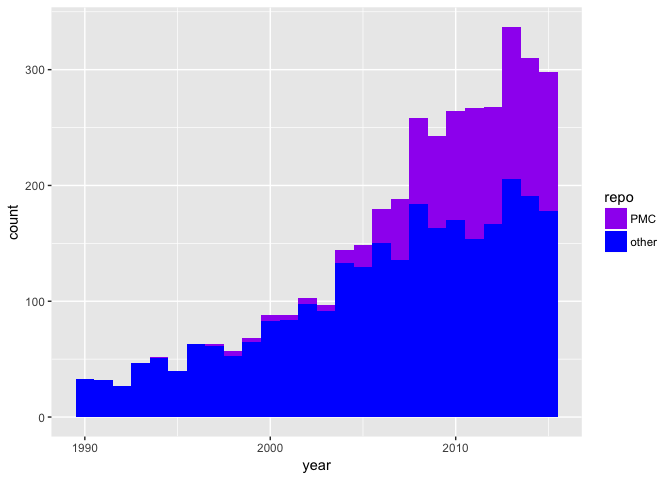
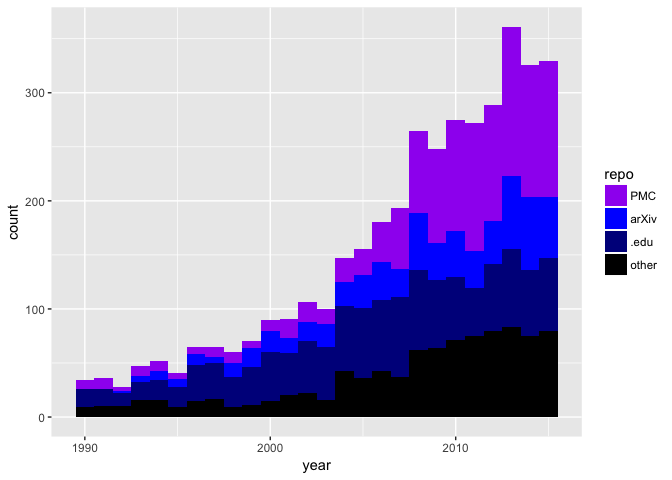
access data

diff --git a/oa_analysis.md b/oa_analysis.md
@@ -37,7 +37,7 @@ Category definitions:
 -   *green\_only*: The article is Green OA. We couldn't find any free copy on the publisher page, but we did find one in a repository. Note: this category is for copies that are *only* available in the repository, nowhere else.
 -   *NA*: Processing error of som kind...we'll fix these before publication
 
-So, about 23% of the DOI-assigned literature is available to read. Given that we’re sampling from 65,838,767 total journal articles with a Crossref DOI, that means we can estimate there are *at least* 65838767 \* 0.232 = 15274594 free-to-read articles (15.2 million) with Crossref DOIs.
+So, about 28% of the DOI-assigned literature is available to read. Given that we’re sampling from 66,560,153 total journal articles with a Crossref DOI, that means we can estimate there are *at least* 66560153 \* 0.279 = 18570283 free-to-read articles (18.6 million) with Crossref DOIs.
 
 But we know that in recent years OA has been gaining steam, so let's let's look more closely at OA over time.
 
@@ -168,14 +168,14 @@ articles_all = articles_all %>% mutate(base_collection_string=as.character(green
 
 articles_all$repo = NULL
 articles_all$repo[articles_all$oa=="green_only"] = "other"
-articles_all$repo[grepl('pmcid', articles_all$evidence)] = "PMC"
-articles_all$repo[grepl('pubmed', articles_all$base_collection_string)] = "PMC"
-articles_all$repo[grepl('arxiv', articles_all$base_collection_string)] = "arXiv"
+articles_all$repo[grepl('/pmc/', articles_all$best_open_url)] = "PMC"
+articles_all$repo[grepl('arxiv.org', articles_all$best_open_url)] = "arXiv"
+articles_all$repo[grepl('.edu', articles_all$best_open_url)] = ".edu"
 
-repo_ordered_levels = c("PMC", "arXiv", "other")
+repo_ordered_levels = c("PMC", "arXiv", ".edu", "other")
 articles_all = mutate(articles_all, repo=factor(repo, levels=repo_ordered_levels))
 
-repo_color_map = scale_fill_manual(values=c("purple", "blue", "dark blue"))
+repo_color_map = scale_fill_manual(values=c("purple", "blue", "dark blue", "black"))
 
 articles_all %>% filter(is_modern) %>% filter(!is.na(repo)) %>% ggplot(aes(x=year, fill=repo)) + geom_bar(width=1) + repo_color_map
 ```
@@ -188,11 +188,13 @@ It apprears that multi-year embargoes maybe affecting PMC, since the number of a
 articles_all %>% filter(year > 2009, oa=="green_only") %>% count(repo) %>% mutate(proportion=n/sum(n))
 ```
 
-    ## # A tibble: 2 × 3
+    ## # A tibble: 4 × 3
     ##     repo     n proportion
     ##   <fctr> <int>      <dbl>
-    ## 1    PMC   723  0.3763665
-    ## 2  other  1198  0.6236335
+    ## 1    PMC   757  0.3940656
+    ## 2  arXiv   373  0.1941697
+    ## 3   .edu   268  0.1395107
+    ## 4  other   523  0.2722540
 
 That said, smaller repositories are still making a significant contribution to Green OA, particularly in recent years. for articles published since 2009, the contribute about as much as PMC (42%).
 
@@ -249,27 +251,61 @@ DOIs accessed through Unpaywall on April 20, 2017. 50k accesses, 30k unique DOIs
 
 To write: - describe unpaywall - describe userbase of unpaywall - the number of calls to the api - percent of dois with more than one accesses - number of unique IP addresses - DOI based analysis - we'll include one or two of these graphs, not sure which yet - for the most viewed articles, the OA story is better, and getting even better
 
+NOTE THIS GOES UP TO 2017, SEEMS RELEVANT
+
 ``` r
-# articles_accessed_raw <- read.csv("export_study_dois_unpaywall_accesses_20170511.csv")
-# articles_accessed = articles_accessed_raw
-# articles_accessed = mutate(articles_accessed, oa=factor(oa_color_long, levels=oa_ordered_levels))
-# 
-# # how much oa
-# articles_accessed %>% count(oa) %>% mutate(proportion=n/sum(n))
-# articles_accessed %>% ggplot(aes(x="", fill=oa)) + geom_bar() + oa_color_map
-# 
-# articles_accessed = articles_accessed %>% mutate(is_modern = year >= 1990 & year <= 2015)
-# articles_accessed %>% count(is_modern) %>% mutate(proportion = n / sum(n))
-# 
-# articles_accessed %>% filter(is_modern) %>%
-#     ggplot(aes(x=year, fill=oa)) + geom_bar(width=1) + oa_color_map
-# 
-# oa_freq_by_year = articles_accessed %>% filter(is_modern) %>% count(year, oa) %>%
-#   mutate(perc = n / sum(n)) %>%
-#   ungroup()
-# 
-# oa_freq_by_year %>% ggplot(aes(x=year, y=perc, fill=oa)) + geom_area() + oa_color_map
+articles_accessed_raw <- read.csv("export_study_dois_unpaywall_accesses.csv")
+articles_accessed = articles_accessed_raw
+articles_accessed = mutate(articles_accessed, oa=factor(oa_color_long, levels=oa_ordered_levels))
+
+# how much oa
+articles_accessed %>% count(oa) %>% mutate(proportion=n/sum(n))
 ```
+
+    ## # A tibble: 6 × 3
+    ##            oa     n   proportion
+    ##        <fctr> <int>        <dbl>
+    ## 1      closed 55944 0.5295370432
+    ## 2   gold_free 16136 0.1527350516
+    ## 3 gold_hybrid  8789 0.0831921399
+    ## 4   gold_doaj 15085 0.1427868278
+    ## 5  green_only  9661 0.0914460420
+    ## 6          NA    32 0.0003028955
+
+``` r
+articles_accessed %>% ggplot(aes(x="", fill=oa)) + geom_bar() + oa_color_map
+```
+
+![](oa_analysis_files/figure-markdown_github/unnamed-chunk-14-1.png)
+
+``` r
+articles_accessed = articles_accessed %>% mutate(is_modern = year >= 1990 & year <= 2017)
+articles_accessed %>% count(is_modern) %>% mutate(proportion = n / sum(n))
+```
+
+    ## # A tibble: 3 × 3
+    ##   is_modern      n proportion
+    ##       <lgl>  <int>      <dbl>
+    ## 1     FALSE   3610  0.0341704
+    ## 2      TRUE 100936  0.9554081
+    ## 3        NA   1101  0.0104215
+
+``` r
+articles_accessed %>% filter(is_modern) %>%
+    ggplot(aes(x=year, fill=oa)) + geom_bar(width=1) + oa_color_map
+```
+
+![](oa_analysis_files/figure-markdown_github/unnamed-chunk-14-2.png)
+
+``` r
+oa_freq_by_year = articles_accessed %>% filter(is_modern) %>% count(year, oa) %>%
+  mutate(perc = n / sum(n)) %>%
+  ungroup()
+
+oa_freq_by_year %>% ggplot(aes(x=year, y=perc, fill=oa)) + geom_area() + oa_color_map
+```
+
+![](oa_analysis_files/figure-markdown_github/unnamed-chunk-14-3.png)
 
 \# OA and citation patterns
 ===========================
